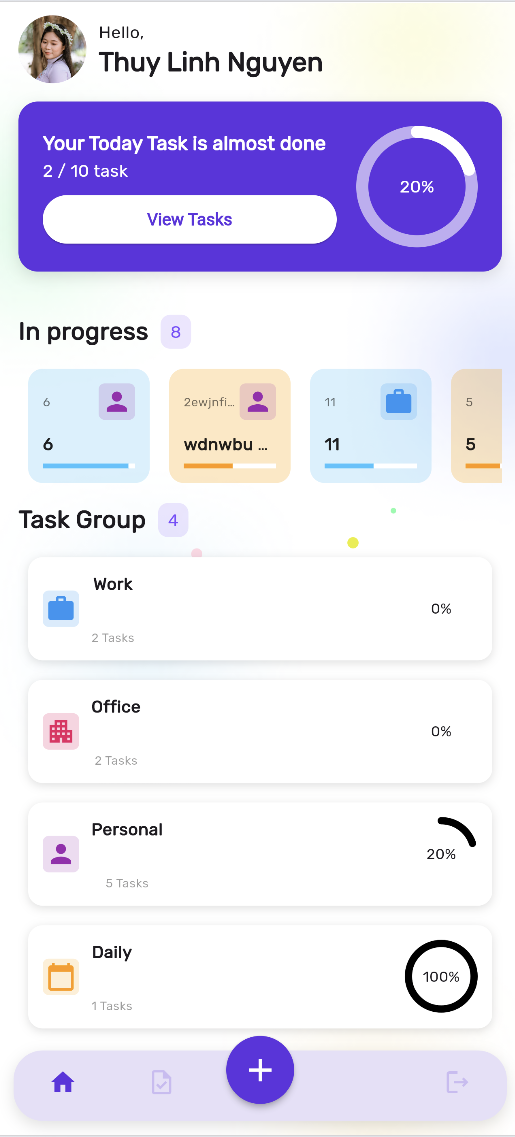
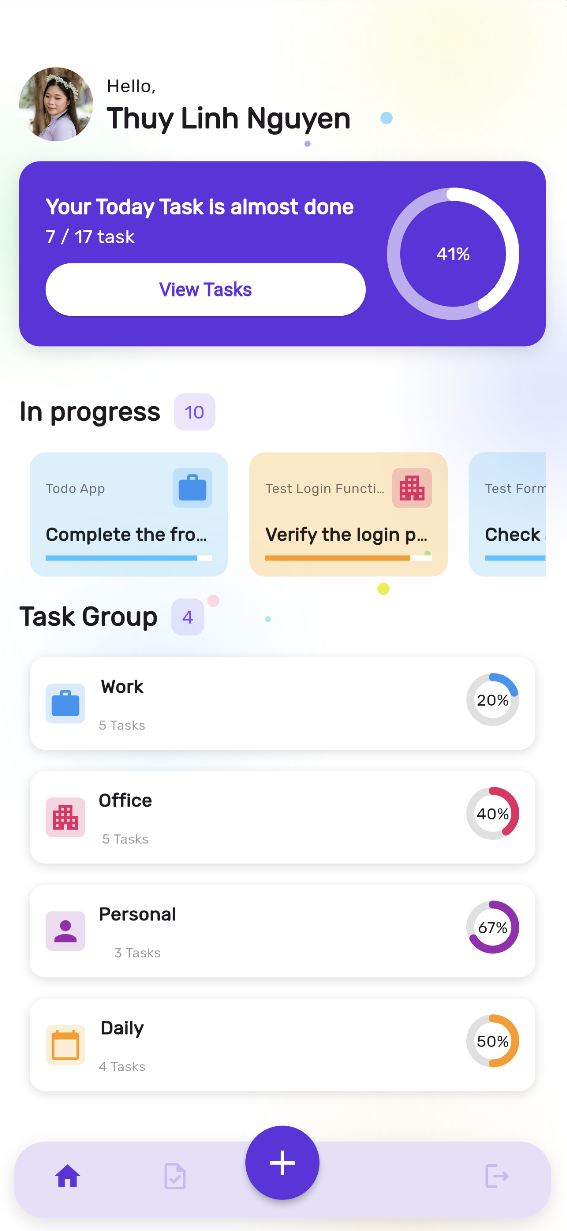
final

diff --git a/lib/views/main_page.dart b/lib/views/main_page.dart
@@ -151,6 +151,7 @@ class _MainPageState extends State<MainPage> {
 
                               if (isMobile) {
                                 return SingleChildScrollView(
+                                  padding: const EdgeInsets.only(top: 20),
                                   controller: scrollController,
                                   child: col1,
                                 );
@@ -240,7 +241,7 @@ class _MainPageState extends State<MainPage> {
                                                 );
                                               },
                                               child: Container(
-                                                width: isMobile ? 100 : 150,
+                                                width: isMobile ? 150 : 170,
                                                 margin:
                                                     const EdgeInsets.symmetric(
                                                       vertical: 8,
@@ -397,7 +398,7 @@ class _MainPageState extends State<MainPage> {
                                           );
                                         },      
                                         child: Container(
-                                          height: isMobile ? 85 : 100,
+                                          height: isMobile ? 70 : 90,
                                           margin: const EdgeInsets.symmetric(
                                             vertical: 8,
                                             horizontal: 8,
@@ -492,7 +493,7 @@ class _MainPageState extends State<MainPage> {
                                                       : 0.0;
                                         
                                                   return CircularPercentIndicator(
-                                                    radius: 30.0,
+                                                    radius: 20.0,
                                                     lineWidth: 6.0,
                                                     percent: percent.clamp(
                                                       0.0,
@@ -504,9 +505,9 @@ class _MainPageState extends State<MainPage> {
                                                         fontSize: 12,
                                                       ),
                                                     ),
-                                                    progressColor: Colors.black,
+                                                    progressColor: _getCol(cate),
                                                     backgroundColor:
-                                                        Colors.white60,
+                                                      Colors.black12,
                                                     circularStrokeCap:
                                                         CircularStrokeCap.round,
                                                   );
@@ -530,7 +531,7 @@ class _MainPageState extends State<MainPage> {
                                 );
                               }
                               return Expanded(
-                                flex: 1,
+                                flex: 2,
                                 child: Align(
                                   alignment: Alignment.topCenter,
                                   child: SingleChildScrollView(child: col),
@@ -593,4 +594,20 @@ class _MainPageState extends State<MainPage> {
       child: icon,
     );
   }
+  
+  Color _getCol(String category) {
+    switch (category) {
+      case 'Work':
+        return const Color.fromARGB(255, 33, 149, 243);
+      case 'Office':
+        return const Color.fromARGB(255, 233, 30, 98);
+      case 'Personal':
+        return const Color.fromARGB(255, 155, 39, 176);
+      case 'Daily':
+        return const Color.fromARGB(255, 255, 153, 0);
+      default:
+        return Colors.grey;
+    }
+  }
+
 }

diff --git a/lib/views/task_detail_page.dart b/lib/views/task_detail_page.dart
@@ -123,7 +123,7 @@ class _TaskDetailPageState extends State<TaskDetailPage> {
           children: [
             IconButton(onPressed: () {}, icon: const Icon(null)),
             Text(
-              'Add Task',
+              'Task Detail',
               style: TextStyle(fontSize: 25, fontWeight: FontWeight.bold),
             ),
             IconButton(onPressed: () {}, icon: const Icon(null)),
@@ -174,7 +174,13 @@ class _TaskDetailPageState extends State<TaskDetailPage> {
                       items: _categories.map((category) {
                         return DropdownMenuItem(
                           value: category,
-                          child: Text(category),
+                          child: Row(
+                            children: [
+                              _categoryIcon(category, MediaQuery.of(context).size.width < 700),
+                              const SizedBox(width: 8),
+                              Text(category),
+                            ],
+                          ),
                         );
                       }).toList(),
                       onChanged: (value) {
@@ -380,4 +386,42 @@ class _TaskDetailPageState extends State<TaskDetailPage> {
       ),
     );
   }
+
+  Widget _categoryIcon(String category, bool isMobile) {
+    Icon icon;
+    Color color;
+
+    switch (category) {
+      case 'Work':
+        icon = Icon(Icons.work, color: Color.fromARGB(255, 33, 149, 243), size: 25);
+        color = const Color.fromARGB(46, 33, 149, 243);
+        break;
+      case 'Office':
+        icon = Icon(Icons.apartment, color: const Color.fromARGB(255, 233, 30, 98), size: 25);
+        color = const Color.fromARGB(49, 233, 30, 98);
+        break;
+      case 'Personal':
+        icon = Icon(Icons.person, color: Colors.purple, size: 25);
+        color = const Color.fromARGB(42, 155, 39, 176);
+        break;
+      case 'Daily':
+        icon = Icon(Icons.calendar_today, color: Color.fromARGB(255, 255, 153, 0), size: 25);
+        color = const Color.fromARGB(42, 255, 153, 0);
+        break;
+      default:
+        icon = Icon(Icons.calendar_today, color: Colors.grey, size: 25);
+        color = const Color.fromARGB(42, 158, 158, 158);
+    }
+
+    return Container(
+      width: 30,
+      height: 30,
+      decoration: BoxDecoration(
+        color: color,
+        borderRadius: BorderRadius.circular(5),
+      ),
+      child: icon,
+    );
+  }
+  
 }

diff --git a/lib/views/add_task_page.dart b/lib/views/add_task_page.dart
@@ -166,7 +166,13 @@ class _AddTaskPageState extends State<AddTaskPage> {
                       items: _categories.map((category) {
                         return DropdownMenuItem(
                           value: category,
-                          child: Text(category),
+                          child: Row(
+                            children: [
+                              _categoryIcon(category, MediaQuery.of(context).size.width < 700),
+                              const SizedBox(width: 8),
+                              Text(category),
+                            ],
+                          ),
                         );
                       }).toList(),
                       onChanged: (value) {
@@ -336,4 +342,42 @@ class _AddTaskPageState extends State<AddTaskPage> {
       ),
     );
   }
+
+  Widget _categoryIcon(String category, bool isMobile) {
+    Icon icon;
+    Color color;
+
+    switch (category) {
+      case 'Work':
+        icon = Icon(Icons.work, color: Color.fromARGB(255, 33, 149, 243), size: 25);
+        color = const Color.fromARGB(46, 33, 149, 243);
+        break;
+      case 'Office':
+        icon = Icon(Icons.apartment, color: const Color.fromARGB(255, 233, 30, 98), size: 25);
+        color = const Color.fromARGB(49, 233, 30, 98);
+        break;
+      case 'Personal':
+        icon = Icon(Icons.person, color: Colors.purple, size: 25);
+        color = const Color.fromARGB(42, 155, 39, 176);
+        break;
+      case 'Daily':
+        icon = Icon(Icons.calendar_today, color: Color.fromARGB(255, 255, 153, 0), size: 25);
+        color = const Color.fromARGB(42, 255, 153, 0);
+        break;
+      default:
+        icon = Icon(Icons.calendar_today, color: Colors.grey, size: 25);
+        color = const Color.fromARGB(42, 158, 158, 158);
+    }
+
+    return Container(
+      width: 30,
+      height: 30,
+      decoration: BoxDecoration(
+        color: color,
+        borderRadius: BorderRadius.circular(5),
+      ),
+      child: icon,
+    );
+  }
+  
 }

diff --git a/lib/widgets/task_card.dart b/lib/widgets/task_card.dart
@@ -115,44 +115,41 @@ class TaskCard extends StatelessWidget {
   }
 
   Widget _categoryIcon(String category, bool isMobile) {
-    IconData icon;
+    Icon icon;
     Color color;
 
     switch (category) {
       case 'Work':
-        icon = Icons.work;
-        color = const Color.fromARGB(110, 33, 149, 243);
+        icon = Icon(Icons.work, color: Color.fromARGB(255, 33, 149, 243), size: 25);
+        color = const Color.fromARGB(46, 33, 149, 243);
         break;
       case 'Office':
-        icon = Icons.apartment;
-        color = const Color.fromARGB(122, 0, 150, 135);
+        icon = Icon(Icons.apartment, color: const Color.fromARGB(255, 233, 30, 98), size: 25);
+        color = const Color.fromARGB(49, 233, 30, 98);
         break;
       case 'Personal':
-        icon = Icons.person;
-        color = const Color.fromARGB(132, 233, 30, 98);
+        icon = Icon(Icons.person, color: Colors.purple, size: 25);
+        color = const Color.fromARGB(42, 155, 39, 176);
         break;
       case 'Daily':
-        icon = Icons.calendar_today;
-        color = const Color.fromARGB(119, 255, 153, 0);
+        icon = Icon(Icons.calendar_today, color: Color.fromARGB(255, 255, 153, 0), size: 25);
+        color = const Color.fromARGB(42, 255, 153, 0);
         break;
       default:
-        icon = Icons.category;
-        color = Colors.grey;
+        icon = Icon(Icons.calendar_today, color: Colors.grey, size: 25);
+        color = const Color.fromARGB(42, 158, 158, 158);
     }
 
-    return Row(
-      children: [
-        Icon(icon, color: color, size: 20),
-        const SizedBox(width: 4),
-        Text(
-          category,
-          style: TextStyle(
-            color: color,
-            fontSize: isMobile ? 14 : 12,
-          ),
-        ),
-      ],
+    return Container(
+      width: 30,
+      height: 30,
+      decoration: BoxDecoration(
+        color: color,
+        borderRadius: BorderRadius.circular(5),
+      ),
+      child: icon,
     );
   }
+
 
 }

diff --git a/lib/views/task_page.dart b/lib/views/task_page.dart
@@ -102,7 +102,7 @@ class _TaskPageState extends State<TaskPage> {
                               style: TextButton.styleFrom(
                                 backgroundColor: isSelected
                                     ? Colors.deepPurpleAccent
-                                    : Colors.transparent,
+                                    : const Color.fromARGB(43, 124, 77, 255),
                                 foregroundColor: isSelected
                                     ? Colors.white
                                     : Colors.black,
@@ -138,11 +138,11 @@ class _TaskPageState extends State<TaskPage> {
                               gridDelegate:
                                   const SliverGridDelegateWithFixedCrossAxisCount(
                                     crossAxisCount:
-                                        3, // số cột (có thể điều chỉnh)
+                                        4, // số cột (có thể điều chỉnh)
                                     crossAxisSpacing: 20,
                                     mainAxisSpacing: 20,
                                     childAspectRatio:
-                                        2.5, // tỉ lệ chiều rộng/cao cho từng card
+                                        2, // tỉ lệ chiều rộng/cao cho từng card
                                   ),
                               itemCount: taskVm.getTasksByFilter(day, filterChosen).length,
                               itemBuilder: (context, index) {

diff --git a/README.md b/README.md
@@ -33,12 +33,12 @@ Email: linhnguyen.8023@gmail.com
 - Main page:
 ![main1](image-2.png)
 
-![main2](image-3.png)
+![main2](image-8.png)
 
 - View task:
-![viewTask1](image-5.png)
+![view1](image-3.png)
 
-![viewTask2](image-4.png)
+![view2](image-4.png)
 
 - Add task:
 ![add1](image-6.png)
